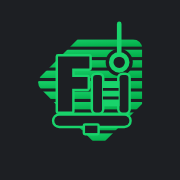
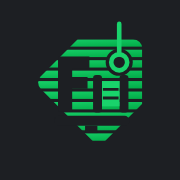
App-Symbol ohne grünen Rand (Sensorplatine 2.26.4)
Claude-Session: https://claude.ai/code/session_01VHHZkw4FkELArneuKPmJeg

Changed region(s): [[0.2778, 0.2778, 0.75, 0.7778], [0.3889, 0.3056, 0.5278, 0.3333], [0.5556, 0.4167, 0.5833, 0.4722]]

diff --git a/firmware/sensor-s3zero/include/config.h b/firmware/sensor-s3zero/include/config.h
@@ -3,7 +3,7 @@
 // Vor dem Löten mit dem Pinout auf docs.waveshare.com/ESP32-S3-Zero vergleichen.
 #pragma once
 
-#define FW_VERSION "2.26.3"
+#define FW_VERSION "2.26.4"
 
 // Ordner der Firmware im Zweig webflasher-bin (für „Nach Update suchen“)
 #ifndef UPDATE_ORDNER
